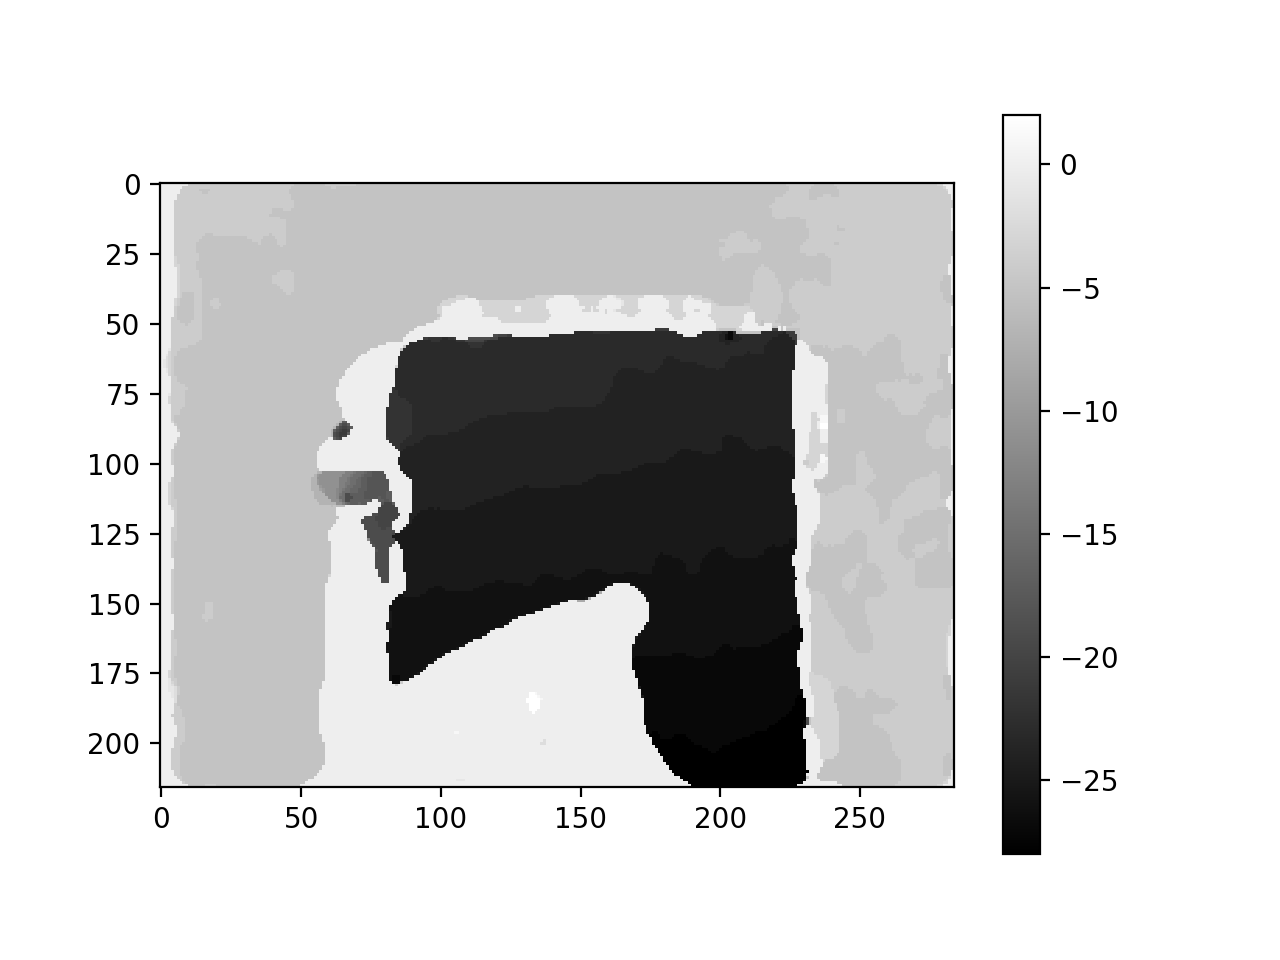
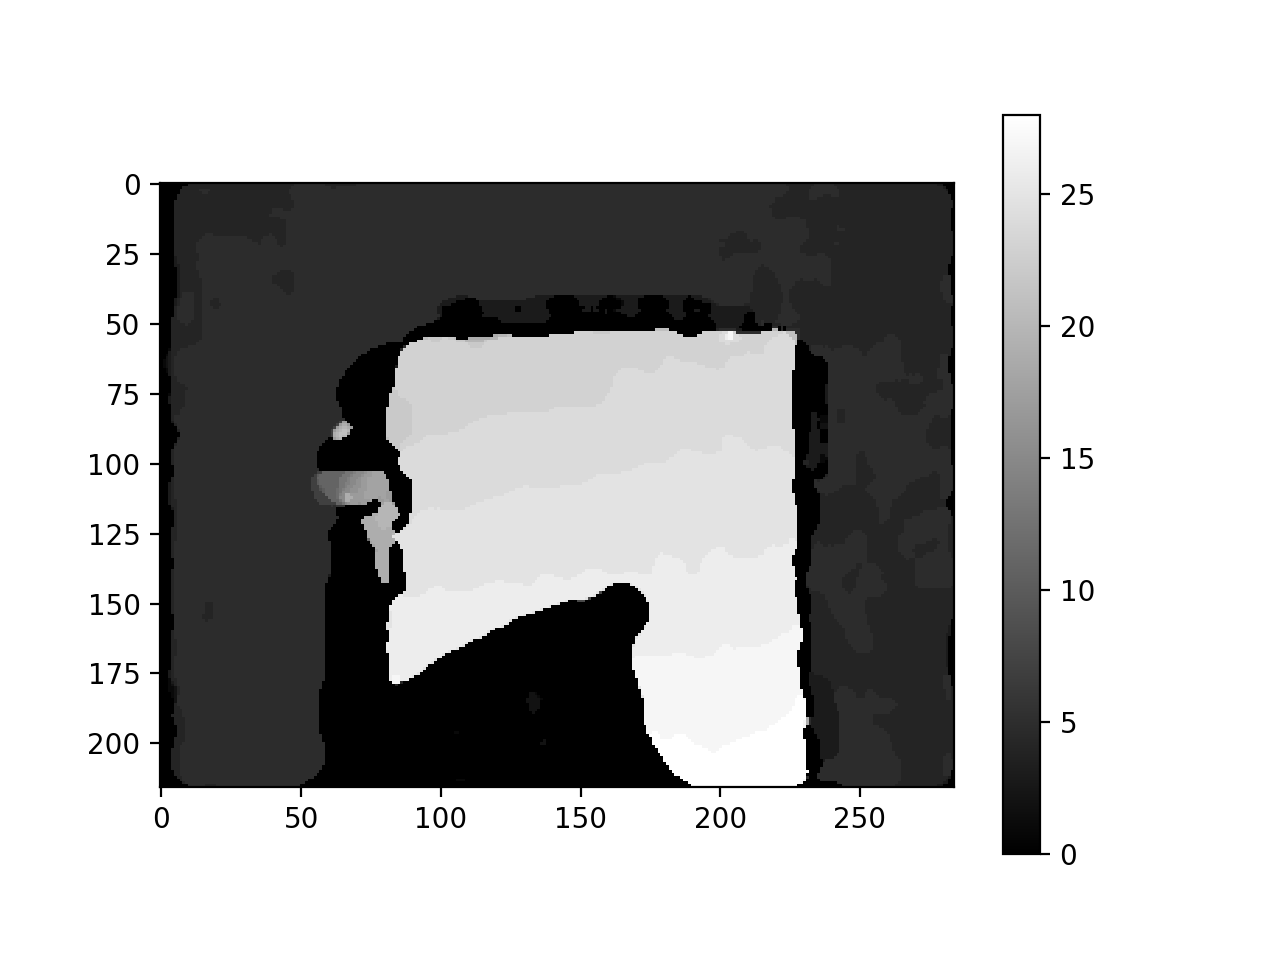
new results

diff --git a/src/stereoRec2.py b/src/stereoRec2.py
@@ -5,18 +5,19 @@ from matplotlib import pyplot as plt
 
 
 def loadImages(name="Tsukuba"):
+    # NOTE the disparities of the ground trough references are scaled by 8
     if name=="Tsukuba":
         L = np.float32(cv2.imread('../data/tsukuba/scene1.row3.col1.ppm',0))
         R = np.float32(cv2.imread('../data/tsukuba/scene1.row3.col3.ppm',0))
-        ref = np.float32(cv2.imread('../data/tsukuba/truedisp.row3.col3.pgm',0))
+        ref = np.float32(cv2.imread('../data/tsukuba/truedisp.row3.col3.pgm',0)) / 8
     elif name == "map":
         L = np.float32(cv2.imread('../data/map/im0.pgm',0))
         R = np.float32(cv2.imread('../data/map/im1.pgm',0))
-        ref = np.float32(cv2.imread('../data/map/disp1.pgm',0))
+        ref = np.float32(cv2.imread('../data/map/disp1.pgm',0)) / 8
     elif name == "venus":
-        L = np.float32(cv2.imread('../data/venus/im0.pgm',0))
+        L = np.float32(cv2.imread('../data/venus/im2.ppm',0))
         R = np.float32(cv2.imread('../data/venus/im6.ppm',0))
-        ref = np.float32(cv2.imread('../data/venus/disp6.pgm',0))
+        ref = np.float32(cv2.imread('../data/venus/disp2.pgm',0)) / 8
     return (L, R, ref)
 
 # Scales image suche that scaledIm.shape[0] % N = 0
@@ -76,14 +77,15 @@ def pyramidLevel(L, R, MapL, MapR, N, M, scale, isFirst):
     MapL = computeMap(L, R, N, M, scale, MapL)
     MapR = computeMap(R, L, N, M, scale, MapR)
 
-#    for i in range(sx):
-#        for j in range(sy):
-#            if MapR[i,j + int(MapL[i,j])]+MapL[i,j] !=0:
-#                MapL[i,j] = (-MapR[i,j + int(MapL[i,j])]+MapL[i,j])/2
-#    for i in range(sx):
-#        for j in range(sy):
-#            if MapL[i,j + int(MapR[i,j])]+MapR[i,j] !=0:
-#                MapR[i,j] = (-MapL[i,j + int(MapR[i,j])]+MapR[i,j])/2
+    # twoway matching, if MapL and MapR do not correspond, take the mean
+    # for i in range(sx):
+    #     for j in range(sy):
+    #         if MapR[i,j + int(MapL[i,j])] != -MapL[i,j]:
+    #             MapL[i,j] = (-MapR[i,j + int(MapL[i,j])]+MapL[i,j])/2
+    # for i in range(sx):
+    #     for j in range(sy):
+    #         if MapL[i,j + int(MapL[i,j])] != -MapR[i,j]:
+    #             MapR[i,j] = (-MapL[i,j + int(MapR[i,j])]+MapR[i,j])/2
 
     return (MapL, MapR)
 
@@ -95,6 +97,7 @@ def plotFig(Map, name, N, M):
     plt.imshow(Map[HW:sx-HW,HW:sy-HW],cmap = 'gray')
     plt.colorbar()
     plt.savefig("../results/" + name + "N" + str(N) + "M" + str(M) + ".png", dpi=200)
+    plt.close()
     #plt.show()
 
 

diff --git a/src/eval.py b/src/eval.py
@@ -9,7 +9,7 @@ from stereoRec2 import loadImages, getDisparityMap, plotFig
 def disparity_error_statistics(our, ref):
     if np.shape(our) != np.shape(ref): # if dims don't fit, it's probably because of lost margins
         our = resize(our, np.shape(ref)) # correct this, by resizing to the same size
-    err = our-ref
+    err = np.abs(our-ref) # ignore sign of error
     # return mean and std of the error, and count large ones
     return [np.mean(err), np.std(err), len(np.where(err >= 3)[0])]
 
@@ -20,8 +20,10 @@ if __name__ == "__main__":
         L, R, ref = loadImages(name)
         # test hyperparams
         for N in [3, 5, 7, 9, 11]:
-            for M in [1, 2, 3]:
+            for M in [#1, 2, 3,
+                    4, 5, 6]:
                 MapL, _ = getDisparityMap(L, R, N, M, 1)
+                MapL = np.abs(MapL) # ignore sign of disparity
                 plotFig(MapL, name, N, M)
                 stats = disparity_error_statistics(MapL, ref)
-                print(N, M, *stats)
+                print(N, "&", M, "&", stats[0], "&", stats[1], "&", stats[2], "\\\\")
